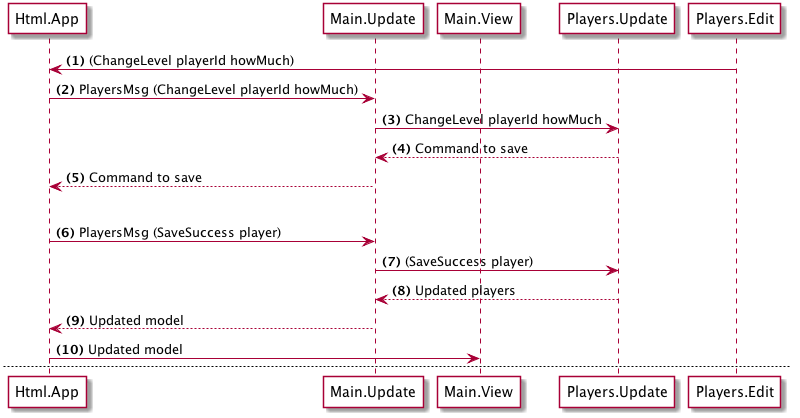
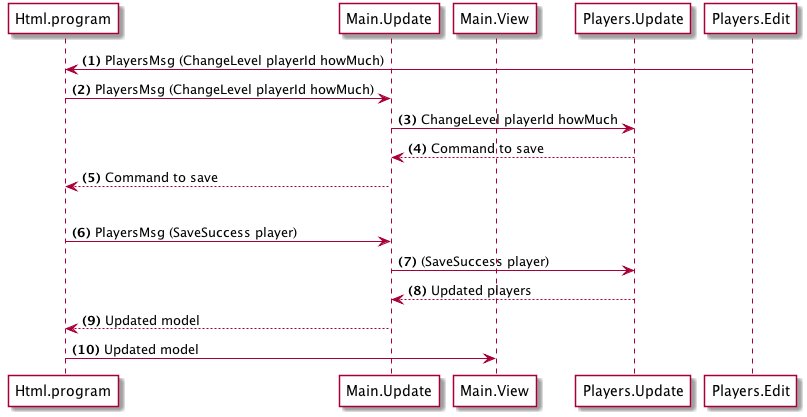
Update edit chapter

diff --git a/en/08-edit/04-commands.md b/en/08-edit/04-commands.md
@@ -1,8 +1,8 @@
-> This page covers Elm 0.17
+> This page covers Elm 0.18
 
 # Players Commands
 
-Next let's create tasks and commands to save an updated player through our API.
+Next let's create the command to updated the player through our API.
 
 In __src/Players/Commands.elm__ add:
 
@@ -13,39 +13,33 @@ import Json.Encode as Encode
 
 saveUrl : PlayerId -> String
 saveUrl playerId =
-    "http://localhost:4000/players/" ++ (toString playerId)
+    "http://localhost:4000/players/" ++ playerId
 
 
-saveTask : Player -> Task.Task Http.Error Player
-saveTask player =
-    let
-        body =
-            memberEncoded player
-                |> Encode.encode 0
-                |> Http.string
-
-        config =
-            { verb = "PATCH"
-            , headers = [ ( "Content-Type", "application/json" ) ]
-            , url = saveUrl player.id
-            , body = body
-            }
-    in
-        Http.send Http.defaultSettings config
-            |> Http.fromJson memberDecoder
+saveRequest : Player -> Http.Request Player
+saveRequest player =
+    Http.request
+        { body = memberEncoded player |> Http.jsonBody
+        , expect = Http.expectJson memberDecoder
+        , headers = []
+        , method = "PATCH"
+        , timeout = Nothing
+        , url = saveUrl player.id
+        , withCredentials = False
+        }
 
 
 save : Player -> Cmd Msg
 save player =
-    saveTask player
-        |> Task.perform SaveFail SaveSuccess
+    saveRequest player
+        |> Http.send OnSave
 
 
 memberEncoded : Player -> Encode.Value
 memberEncoded player =
     let
         list =
-            [ ( "id", Encode.int player.id )
+            [ ( "id", Encode.string player.id )
             , ( "name", Encode.string player.name )
             , ( "level", Encode.int player.level )
             ]
@@ -54,51 +48,36 @@ memberEncoded player =
             |> Encode.object
 ```
 
-### Save task
+### Save request
 
 ```elm
-saveTask : Player -> Task.Task Http.Error Player
-saveTask player =
-    let
-        body =
-            memberEncoded player ➊
-                |> Encode.encode 0 ➋
-                |> Http.string ➌
-
-        config =
-            { verb = "PATCH"
-            , headers = [ ( "Content-Type", "application/json" ) ]
-            , url = saveUrl player.id
-            , body = body
-            }
-    in
-        Http.send Http.defaultSettings config ➍
-            |> Http.fromJson memberDecoder ➎
+saveRequest : Player -> Http.Request Player
+saveRequest player =
+    Http.request
+        { body = memberEncoded player |> Http.jsonBody ➊
+        , expect = Http.expectJson memberDecoder ➋
+        , headers = []
+        , method = "PATCH" ➌
+        , timeout = Nothing
+        , url = saveUrl player.id
+        , withCredentials = False
+        }
 ```
 
-➊ Encodes the given player, converting the record to a `Value`. A `Value` in this context is a type that encapsulates a JavaScript value (number, string, null, boolean, array, object).
-
-➋ `Encode.encode` converts the `Value` to a Json string.
-Similar to `JSON.stringify` in JavaScript. `0` indicates the indentation on the resulting string.
-<http://package.elm-lang.org/packages/elm-lang/core/4.0.1/Json-Encode#encode>
-
-➌ Creates a Http request body using the given string. <http://package.elm-lang.org/packages/evancz/elm-http/3.0.1/Http#string>
-
-➍ Creates a task to send the encoded player to the API.
-<http://package.elm-lang.org/packages/evancz/elm-http/3.0.1/Http#send>
-
-➎ This takes the previous task and chains it with a new task that will decode the response given by the API and give us the decoded value.
-<http://package.elm-lang.org/packages/evancz/elm-http/3.0.1/Http#fromJson>
+➊ Here we encode the given player and then convert the encoded value to a JSON string
+➋ Here we specify how to parse the response, in this case we want to parse the returned JSON back into and Elm value.
+➌ `PATCH` is the http method that our API expects when updating records.
 
 ### Save
 
 ```elm
 save : Player -> Cmd Msg
 save player =
-    saveTask player ➊
-        |> Task.perform ➋ SaveFail SaveSuccess
+    saveRequest player ➊
+        |> Http.send OnSave ➋
 ```
 
-Takes the `saveTask` ➊ and converts it to a command using `Task.perform` ➋. This command will resolve on the `SaveFail` message on failure or `SaveSuccess` message on success.
+Here we create the save request ➊ and then generate a command to send the request using `Http.send` ➋. 
+`Http.send` takes a message constructor (`OnSave` in this case). After the request is done, Elm will trigger the `OnSave` message with the response for the request.
 
 

diff --git a/en/08-edit/05-update.md b/en/08-edit/05-update.md
@@ -1,4 +1,4 @@
-> This page covers Elm 0.17
+> This page covers Elm 0.18
 
 # Players Update
 
@@ -7,8 +7,8 @@ Finally we need to account for the new messages in our `update` function. In __s
 Add a new import:
 
 ```bash
-import Players.Commands exposing (save)
 import Players.Models exposing (Player, PlayerId)
+import Players.Commands exposing (save)
 ```
 
 ## Create update commands
@@ -71,18 +71,20 @@ update message players =
         ChangeLevel id howMuch ->
             ( players, changeLevelCommands id howMuch players |> Cmd.batch )
 
-        SaveSuccess updatedPlayer ->
+        OnSave (Ok updatedPlayer) ->
             ( updatePlayer updatedPlayer players, Cmd.none )
 
-        SaveFail error ->
+        OnSave (Err error) ->
             ( players, Cmd.none )
 ```
 
 - In `ChangeLevel` we call the helper function `changeLevelCommands` we defined above. That function return a list of commands to run, so we then batch them into one command using `Cmd.batch`.
-- In `SaveSuccess` we call the helper function `updatePlayer` which will update the relevant player from the list.
+- In `OnSave (Ok updatedPlayer)` we call the helper function `updatePlayer` which will update the relevant player from the list.
 
 ---
 
 # Try it
 
 This is all the setup necessary for changing a player's level. Try it, go to the edit view and click the - and + buttons. You should see the level changing and if you refresh your browser that change should be persisted on the server.
+
+Up to this point your application code should look <https://github.com/sporto/elm-tutorial-app/tree/018-08-edit>.

diff --git a/en/08-edit/01-plan.md b/en/08-edit/01-plan.md
@@ -1,3 +1,5 @@
+> This page covers Elm 0.18
+
 # Plan
 
 The plan for changing a player's level is as follows:
@@ -6,9 +8,9 @@ The plan for changing a player's level is as follows:
 
 (1) When the user clicks the increase or decrease button we trigger a message `ChangeLevel` with the `playerId` and `howMuch` as payload.
 
-(2) __Html.App__ (which Navigation wraps) will send this message back to `Main.Update` which will route it to `Players.Update` (3).
+(2) __Html.program__ (which Navigation wraps) will send this message back to `Main.Update` which will route it to `Players.Update` (3).
 
-(4) `Players.Update` will return a command to save the player, this command flows up to __Html.App__ (5).
+(4) `Players.Update` will return a command to save the player, this command flows up to __Html.program__ (5).
 
 (6) The Elm runtime executes the command (trigger an API call) and we will get a result back, either a succesful save or a failure. In the success case we trigger a `SaveSuccess` message with the updated player as payload.
 

diff --git a/en/08-edit/02-messages.md b/en/08-edit/02-messages.md
@@ -1,3 +1,5 @@
+> This page covers Elm 0.18
+
 # Messages
 
 Let's start by adding the messages we will need.
@@ -8,9 +10,9 @@ In __src/Players/Messages.elm__ add:
 type Msg
     ...
     | ChangeLevel PlayerId Int
-    | SaveSuccess Player
-    | SaveFail Http.Error
+    | OnSave (Result Http.Error Player)
 ```
 
 - `ChangeLevel` will trigger when the user wants to change the level. The second parameter is an integer that indicates how much to change the level e.g. -1 to decrease or 1 to increase.
-- Then we will send a request to update the player to the API. `SaveSuccess` will be triggered after a successful response from the API, and `SaveFail` in case of failure.
+- Then we will send a request to update the player to the API. `OnSave` will be triggered after the response from the API is received.
+- `OnSave` will either carry the updated player on success or the Http error on failure.

diff --git a/en/07-routing/09-try-it.md b/en/07-routing/09-try-it.md
@@ -16,6 +16,5 @@ If you go to `http://localhost:3000/#players/2` then you should see one user.
 
 Next we will add some navigation.
 
----
+Up to this point your application code should look <https://github.com/sporto/elm-tutorial-app/tree/018-06-routing>.
 
-There are several others routing matching libraries you can use instead of UrlParser, check [Hop](https://github.com/sporto/hop) for example.

diff --git a/en/07-routing/10-navigation.md b/en/07-routing/10-navigation.md
@@ -118,3 +118,5 @@ update message players =
 ## Test it
 
 Go to the list `http://localhost:3000/#players`. You should now see an Edit button, upon clicking it the location should change to the edit view.
+
+Up to this point your application code should look <https://github.com/sporto/elm-tutorial-app/tree/018-07-navigation>.

diff --git a/en/08-edit/03-player-edit.md b/en/08-edit/03-player-edit.md
@@ -1,3 +1,5 @@
+> This page covers Elm 0.18
+
 ## Player edit view
 
 We created a `ChangeLevel` message. Let's trigger this message from the player's edit view.
